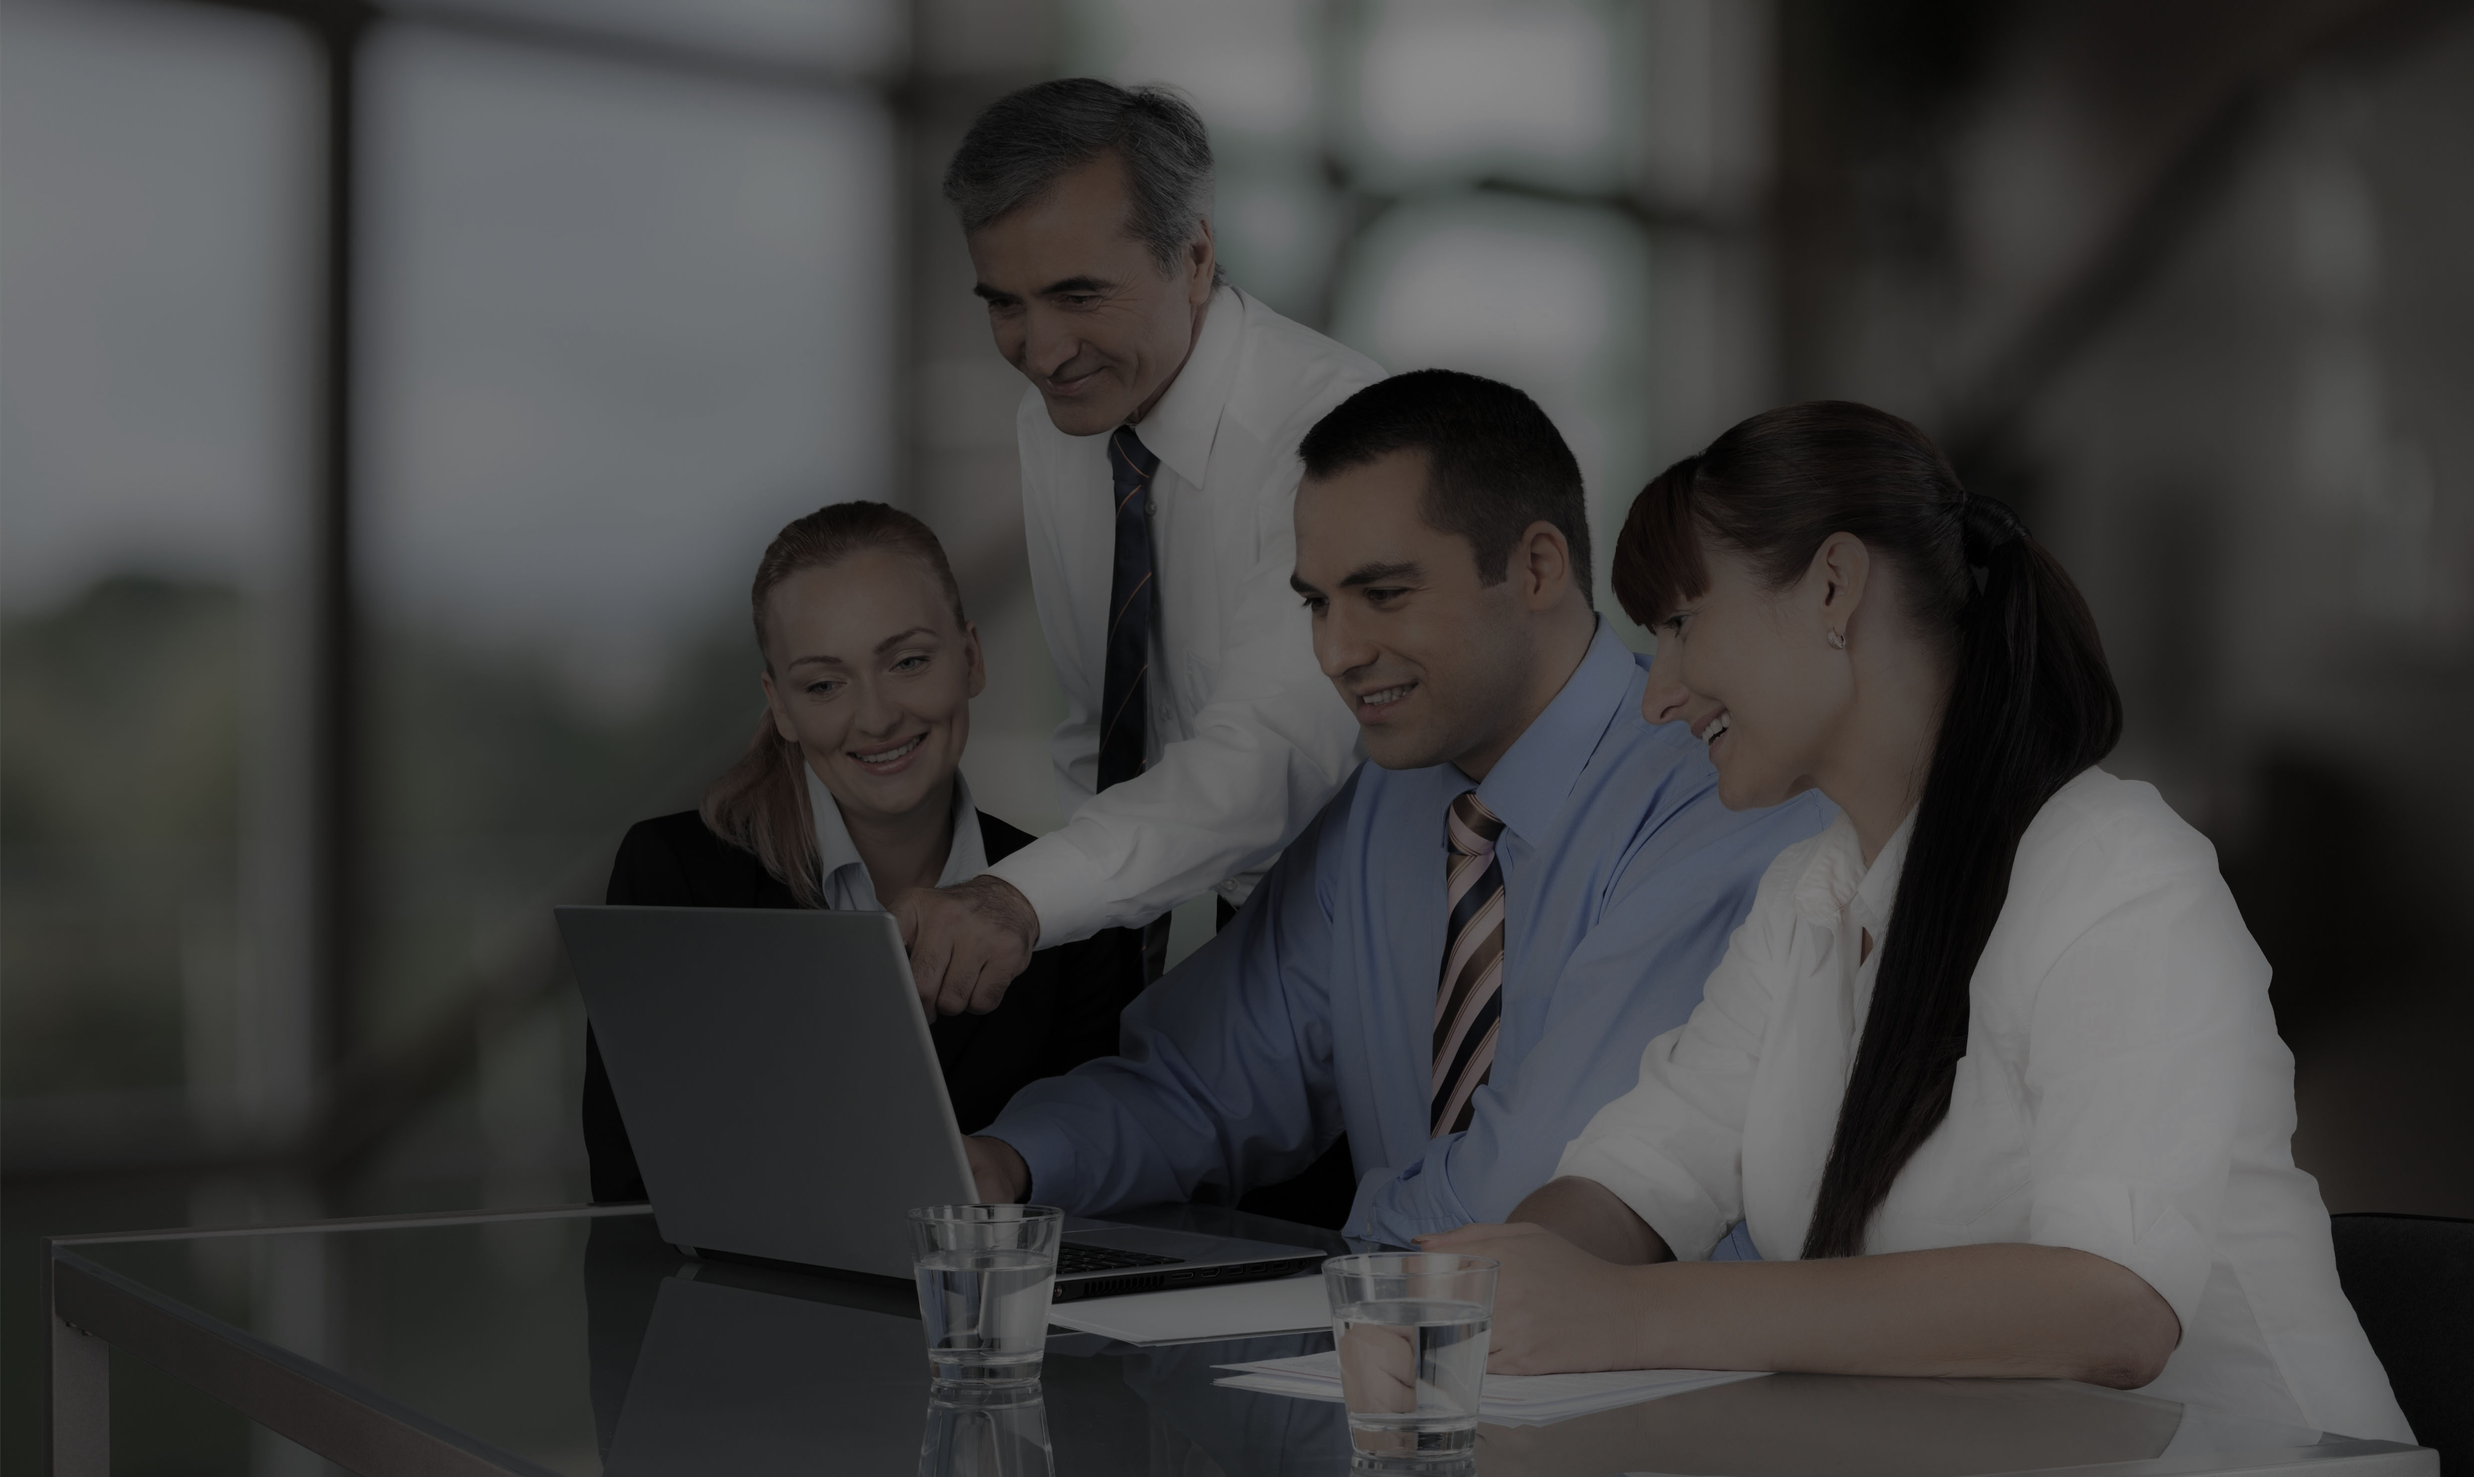
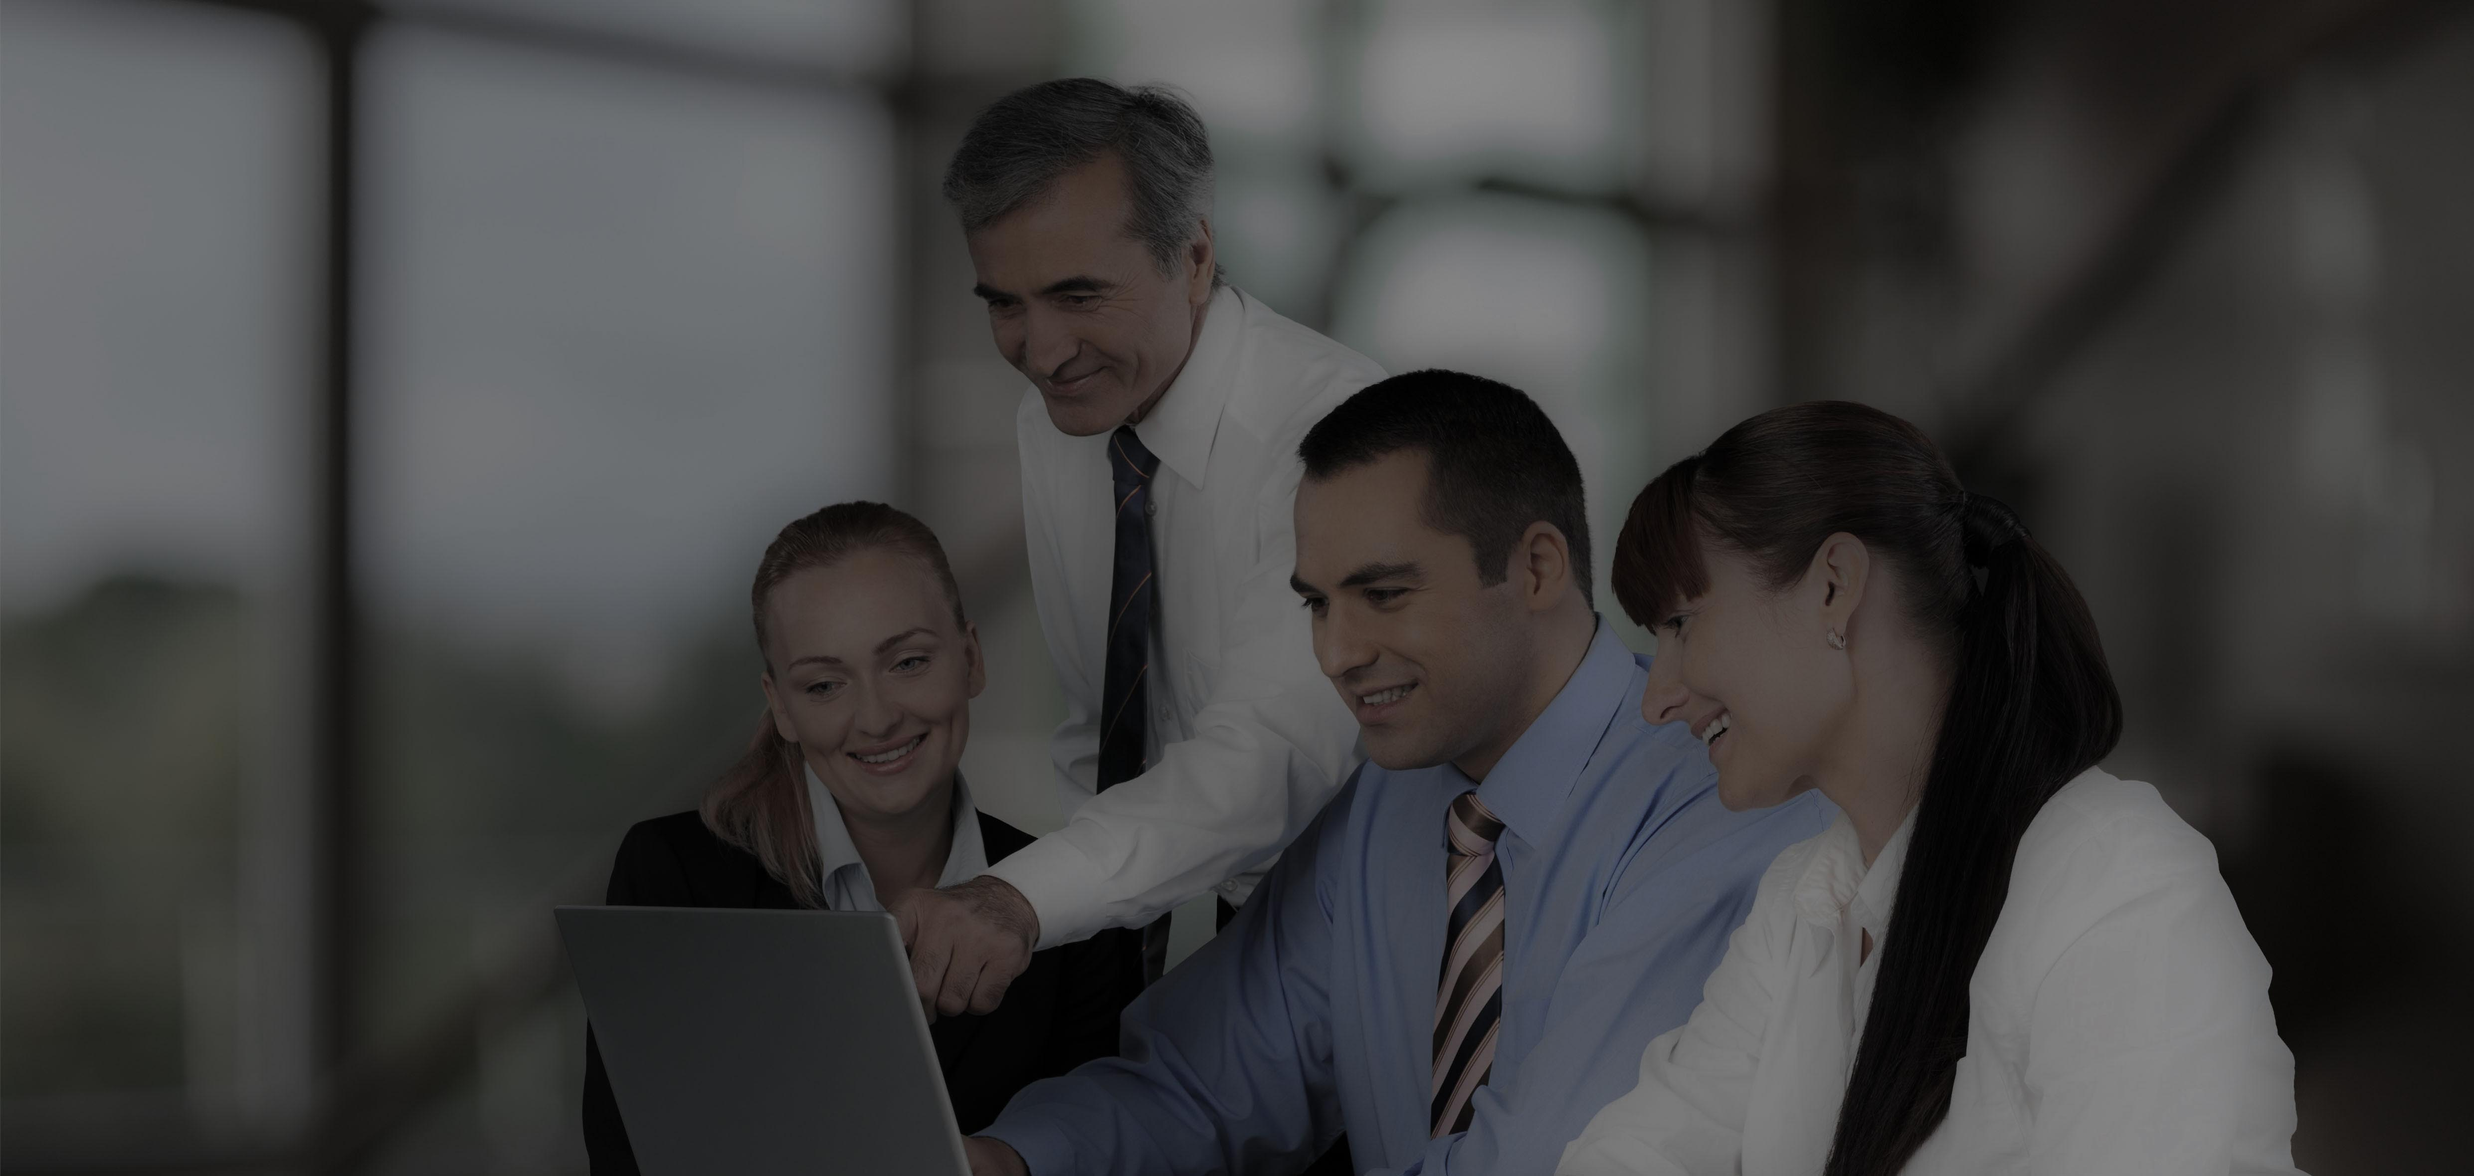
Updated with new images

diff --git a/css/free_tree.css b/css/free_tree.css
@@ -13,7 +13,7 @@
 .heading_bot{font-size: 3.4em; font-weight: 600; }
 .heading_bot1{font-size: 3.4em; font-weight: 600; }
 .fixheader-icons{float: right; padding: 1% 1% 0% 0%; }
-.header-banner {background-color: #333; background-image: url('https://37.media.tumblr.com/8b4969985e84b2aa1ac8d3449475f1af/tumblr_n3iftvUesn1snvqtdo1_1280.jpg'); background-position: center; background-repeat: no-repeat; background-size: cover; width: 100%; height: 100vh; position: relative; }
+.header-banner {background-color: #333; background-image: url('../img/Associate.jpg'); background-position: center; background-repeat: no-repeat; background-size: cover; width: 100%; height: 100vh; position: relative; }
 
 header .logo {background-color: transparent; background-image: url('http://www.futhead.com/static//img/14/clubs/1887.png'); background-position: center top; background-repeat: no-repeat; position: absolute; top: 72px; height: 256px; width: 256px; }
 

diff --git a/css/contact-us.css b/css/contact-us.css
@@ -1,4 +1,4 @@
-.meeting-img { min-height: 480px; margin-bottom: 60px; background-position: 50% top; background-image: url(../img/meeting.jpg); width: 100%; background-size: cover;position: relative; }
+.meeting-img { min-height: 480px; margin-bottom: 60px; background-position: 50% top; background-image: url(../img/Contact_us.jpg); width: 100%; background-size: cover;position: relative; }
 h3.meeting-title { font-weight: 600; font-size: 1.75em; line-height: 1.2em; }
 .meeting-container { padding-left: 40px; padding-right: 40px; }
 .simple_line.contacted { margin-bottom: 14px; margin-top: 10px; border-bottom: 1px solid #e8e8e8; }
